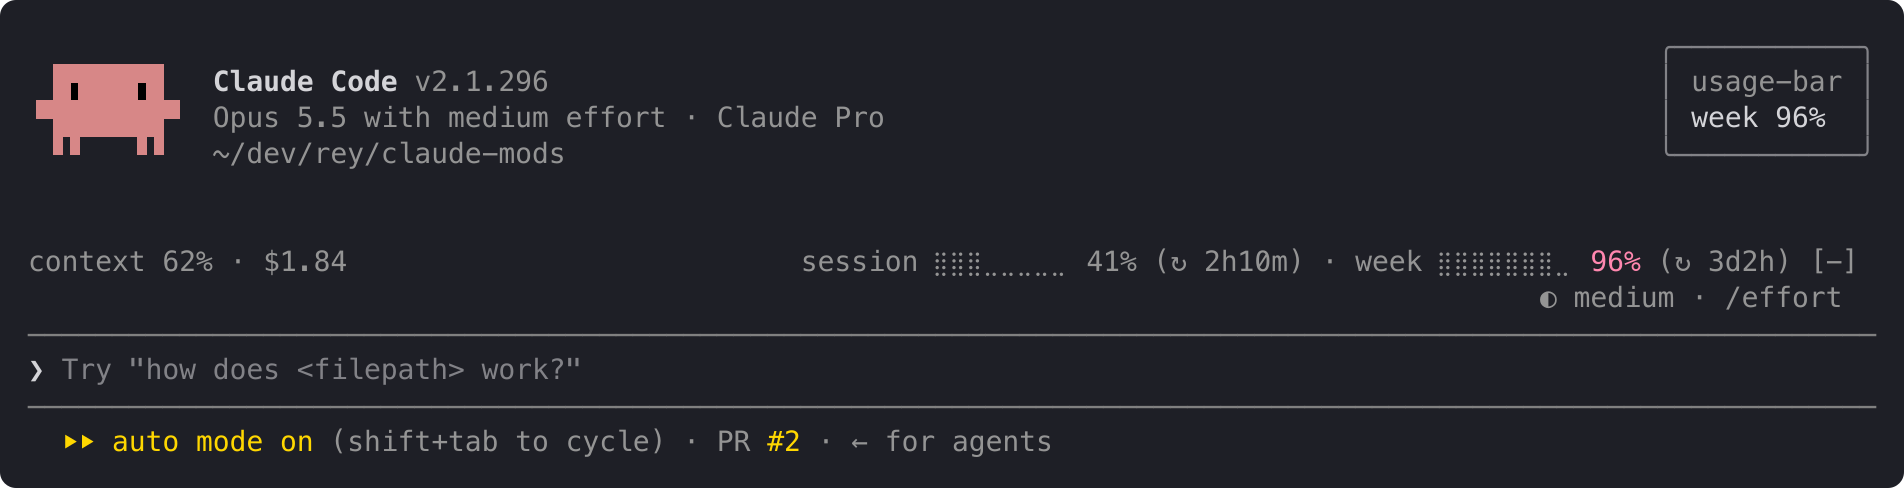
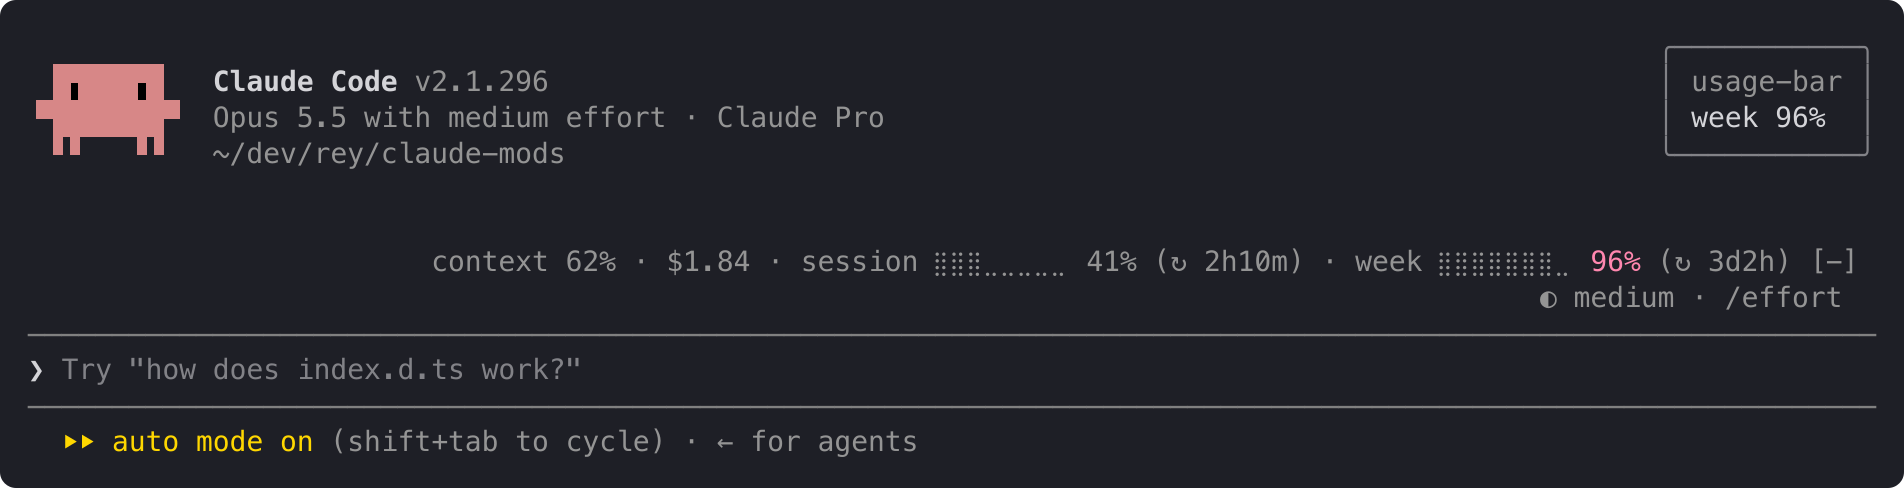
feat(usage-bar): move the whole line to the right edge
At the left edge, context and cost sat where replies are read and
prompts typed. One right-aligned list of items keeps it out of the way.

diff --git a/plugins/usage-bar/hooks/register.tsx b/plugins/usage-bar/hooks/register.tsx
@@ -64,29 +64,24 @@ function windowSegments(limit: LimitReading, layout: Layout, now: number): Segme
   return [{ text: `${label} ${barText}` }, { text: percent, color: levelColor(limit.percentUsed) }, { text: resets }]
 }
 
-// The line in two groups of items: this conversation's figures on the left, the account's limits on the right.
+// The line's items at the right edge: this conversation's figures, then the account's limits.
 // Items are drawn apart with a dot between and a one-column gap either side of it, not a typed ` · `: the
 // desktop app's spaces are narrower than a column.
 type Item = Segment[]
-type Groups = { conversation: Item[]; limits: Item[] }
 const SEPARATOR = 3
 
-// The narrowest gap between the groups.
-const GAP = 2
-
-const groupLength = (items: Item[]) =>
+const lineLength = (items: Item[]) =>
   items.reduce((n, item) => n + item.reduce((m, s) => m + s.text.length, 0), 0) +
   Math.max(0, items.length - 1) * SEPARATOR
 
-function lineGroups(r: Reading, columns: number, now: number): Groups {
-  const fits = ({ conversation, limits }: Groups) =>
-    groupLength(conversation) + (limits.length > 0 ? GAP + groupLength(limits) : 0) <= columns
+function lineItems(r: Reading, columns: number, now: number): Item[] {
+  const fits = (items: Item[]) => lineLength(items) <= columns
 
   // The narrowest layout shows even where nothing fits.
-  return LAYOUTS.map(layout => layoutGroups(r, layout, now)).find(fits) ?? layoutGroups(r, 'tiny', now)
+  return LAYOUTS.map(layout => layoutItems(r, layout, now)).find(fits) ?? layoutItems(r, 'tiny', now)
 }
 
-function layoutGroups(r: Reading, layout: Layout, now: number): Groups {
+function layoutItems(r: Reading, layout: Layout, now: number): Item[] {
   // A figure the reading lacks is a dash, not a made-up 0: the fill before any response
   // reports it, the cost where Claude Code keeps no cost record.
   const ctx = r.contextPercent === undefined ? '–' : `${Math.floor(r.contextPercent)}%`
@@ -99,7 +94,7 @@ function layoutGroups(r: Reading, layout: Layout, now: number): Groups {
     if (window) limits.push(window.filter(segment => segment.text !== ''))
   }
 
-  return { conversation, limits }
+  return [...conversation, ...limits]
 }
 
 // The record to save when the window crossed a threshold not yet toasted this period, else undefined.
@@ -163,44 +158,35 @@ export const register: Register = on => {
 
     if (r === null) {
       return (
-        <Box>
+        <Box flexDirection="row" justifyContent="flex-end" width="100%">
           <Text dimColor>usage: no data yet</Text>
         </Box>
       )
     }
 
     await read($, minute)
-    const { conversation, limits } = lineGroups(r, e.props.bodyColumns, await $.clock.now())
+    const items = lineItems(r, e.props.bodyColumns, await $.clock.now())
+
     // Never wrap: while a desktop window is resized, a frame can draw the layout chosen for the previous width,
     // and a wrapped piece would make the row jump to two lines. Cut it short instead.
-    const draw = (group: string, items: Item[]) =>
-      items.flatMap((item, i) => [
-        ...(i > 0 ? [<Text dimColor wrap="truncate-end">·</Text>] : []),
-        <Box key={`${group}:${i}`} flexDirection="row">
-          {item.map(({ text, color }) =>
-            color ? (
-              <Text color={color} wrap="truncate-end">
-                {text}
-              </Text>
-            ) : (
-              <Text dimColor wrap="truncate-end">
-                {text}
-              </Text>
-            ),
-          )}
-        </Box>,
-      ])
-
     return (
-      <Box flexDirection="row" justifyContent="space-between" columnGap={GAP} width="100%">
-        <Box flexDirection="row" columnGap={1}>
-          {draw('conversation', conversation)}
-        </Box>
-        {limits.length > 0 && (
-          <Box flexDirection="row" columnGap={1}>
-            {draw('limits', limits)}
-          </Box>
-        )}
+      <Box flexDirection="row" justifyContent="flex-end" columnGap={1} width="100%">
+        {items.flatMap((item, i) => [
+          ...(i > 0 ? [<Text dimColor wrap="truncate-end">·</Text>] : []),
+          <Box key={`item:${i}`} flexDirection="row">
+            {item.map(({ text, color }) =>
+              color ? (
+                <Text color={color} wrap="truncate-end">
+                  {text}
+                </Text>
+              ) : (
+                <Text dimColor wrap="truncate-end">
+                  {text}
+                </Text>
+              ),
+            )}
+          </Box>,
+        ])}
       </Box>
     )
   })

diff --git a/plugins/usage-bar/tests/usage-bar.test.ts b/plugins/usage-bar/tests/usage-bar.test.ts
@@ -57,19 +57,13 @@ const session = (percentUsed: number, resetsAt = SESSION_PERIOD): SessionRateLim
 
 async function mountLine($: Engine, surface: (typeof SURFACES)[number], bodyColumns?: number) {
   const ui = await $.ui.mount({ plugin: 'usage-bar', surface, ...abovePrompt(bodyColumns) })
-  // Each group's items are drawn apart with a dot between; ` · ` stands for that, and two spaces, the narrowest gap,
-  // for the space between the conversation's figures on the left and the limits on the right.
+  // Items are drawn apart with a dot between; ` · ` stands for that.
   const boxes = await ui.findAll({ type: 'Box' })
-  const group = (name: string) =>
-    boxes.filter(box => box.key?.startsWith(`${name}:`)).map(box => box.text).join(' · ') || undefined
-  const left = group('conversation')
-  const right = group('limits')
-  // The gaps those stand for are the layout's, not typed spaces: one column either side of each dot, two between groups.
-  if (left !== undefined) {
-    expect(boxes.find(box => box.props.justifyContent === 'space-between')?.props.columnGap).toBe(2)
-    expect(boxes.filter(box => box.props.columnGap === 1)).toHaveLength(right ? 2 : 1)
-  }
-  const line = left === undefined ? boxes[0]?.text : right ? `${left}  ${right}` : left
+  const items = boxes.filter(box => box.key?.startsWith('item:')).map(box => box.text)
+  // The whole line sits at the right edge, and the gap either side of each dot is the layout's, not typed spaces.
+  expect(boxes[0]?.props.justifyContent).toBe('flex-end')
+  if (items.length > 0) expect(boxes[0]?.props.columnGap).toBe(1)
+  const line = items.length > 0 ? items.join(' · ') : boxes[0]?.text
   const texts = await ui.findAll({ type: 'Text' })
   await ui.unmount()
 
@@ -124,7 +118,7 @@ describe('line', () => {
 
     for (const surface of SURFACES) {
       expect((await lineText($, surface))).toBe(
-        'context – · $0.00  session ⣀⣀⣀⣀⣀⣀⣀⣀ 3% (↻ 2h10m) · week ⣿⣀⣀⣀⣀⣀⣀⣀ 21% (↻ 3d2h)',
+        'context – · $0.00 · session ⣀⣀⣀⣀⣀⣀⣀⣀ 3% (↻ 2h10m) · week ⣿⣀⣀⣀⣀⣀⣀⣀ 21% (↻ 3d2h)',
       )
     }
   })
@@ -147,7 +141,7 @@ describe('line', () => {
 
     for (const surface of SURFACES) {
       expect((await lineText($, surface))).toBe(
-        'context 62% · $1.80  session ⣿⣿⣿⣀⣀⣀⣀⣀ 41% (↻ 2h10m) · week ⣿⣀⣀⣀⣀⣀⣀⣀ 18% (↻ 3d2h)',
+        'context 62% · $1.80 · session ⣿⣿⣿⣀⣀⣀⣀⣀ 41% (↻ 2h10m) · week ⣿⣀⣀⣀⣀⣀⣀⣀ 18% (↻ 3d2h)',
       )
     }
   })
@@ -159,10 +153,10 @@ describe('line', () => {
     await measure($, [session(41), week(18)], 62, 1.84)
 
     const layouts = [
-      'context 62% · $1.84  session ⣿⣿⣿⣀⣀⣀⣀⣀ 41% (↻ 2h10m) · week ⣿⣀⣀⣀⣀⣀⣀⣀ 18% (↻ 3d2h)',
-      'ctx 62% · $1.84  s ⣿⣿⣿⣀⣀⣀⣀⣀ 41% (↻ 2h10m) · w ⣿⣀⣀⣀⣀⣀⣀⣀ 18% (↻ 3d2h)',
-      'ctx 62% · $1.84  s 41% (↻ 2h10m) · w 18% (↻ 3d2h)',
-      'ctx 62% · $1.84  s 41% · w 18%',
+      'context 62% · $1.84 · session ⣿⣿⣿⣀⣀⣀⣀⣀ 41% (↻ 2h10m) · week ⣿⣀⣀⣀⣀⣀⣀⣀ 18% (↻ 3d2h)',
+      'ctx 62% · $1.84 · s ⣿⣿⣿⣀⣀⣀⣀⣀ 41% (↻ 2h10m) · w ⣿⣀⣀⣀⣀⣀⣀⣀ 18% (↻ 3d2h)',
+      'ctx 62% · $1.84 · s 41% (↻ 2h10m) · w 18% (↻ 3d2h)',
+      'ctx 62% · $1.84 · s 41% · w 18%',
     ]
     for (const surface of SURFACES) {
       for (const [i, line] of layouts.entries()) {
@@ -215,7 +209,7 @@ describe('line', () => {
     await measure($, [session(10)])
 
     const ui = await $.ui.mount({ plugin: 'usage-bar', surface: 'terminal', ...abovePrompt() })
-    const countdown = async () => (await ui.findAll({ type: 'Box' })).find(box => box.key === 'limits:0')?.text
+    const countdown = async () => (await ui.findAll({ type: 'Box' })).find(box => box.key === 'item:2')?.text
     expect(await countdown()).toBe('session ⣀⣀⣀⣀⣀⣀⣀⣀ 10% (↻ 2h10m)')
     await clock.advance(60_000)
     expect(await countdown()).toBe('session ⣀⣀⣀⣀⣀⣀⣀⣀ 10% (↻ 2h9m)')

diff --git a/docs/usage-bar.md b/docs/usage-bar.md
@@ -4,28 +4,28 @@ One line above the prompt with the session's context fill and cost, plus the pla
 
 ## Behaviour
 
-1. **Line.** One line above the prompt, this conversation's figures on the left and the account's limits on the right:
+1. **Line.** One line above the prompt, at its right edge, away from where replies are read and prompts typed: this conversation's figures, then the account's limits:
 
    ```
-   context 62% · $1.84                session ⣿⣿⣿⣀⣀⣀⣀⣀ 41% (↻ 2h10m) · week ⣿⣀⣀⣀⣀⣀⣀⣀ 18% (↻ 3d2h)
+                   context 62% · $1.84 · session ⣿⣿⣿⣀⣀⣀⣀⣀ 41% (↻ 2h10m) · week ⣿⣀⣀⣀⣀⣀⣀⣀ 18% (↻ 3d2h)
    ```
 
    - `context` (`ctx` in the narrower layouts): how full the context window is, as a whole percent rounded down; `–` while no response has reported it.
    - `$`: what the session has cost so far, in US dollars with two decimals; `$–` where Claude Code keeps no cost record.
    - `session` and `week` (`s` and `w` in the narrower layouts): whole percent used of the session window (`five_hour`) and the weekly window (`seven_day`), rounded down, with the time left until each resets in brackets after `↻`, so it reads as part of its limit: `3d2h` from a day, `2h10m` from an hour, `45m` below, in whole minutes rounded up, a zero part dropped (`4h`, `3d`). Once the reset has passed with no new reading, `now`: the percent shown is the old period's until the next reading. A timer redraws the line every minute, since readings come only with turns and an idle line would go stale. `session` matches claude.ai's "Current session" and doesn't depend on the window's length.
-   - Until the first reading, show `usage: no data yet`, dimmed, so the line doesn't look missing. Not logged in, no reading comes, so it stays until `/login`.
+   - Until the first reading, show `usage: no data yet`, dimmed and at the right edge too, so the line doesn't look missing. Not logged in, no reading comes, so it stays until `/login`.
    - Off a subscription (an API key), readings carry no limits: show context and `$` only.
    - Each window's bar has 8 cells, each 12.5%, filled rounded down: `⣿` used, `⣀` left. Braille looks the same in Warp, iTerm2 and the desktop app and stays light; `█`/`░` draws as a dotted texture in iTerm2 and the desktop app.
    - Each window's percent is coloured by the theme from 50%: `warning`, and `error` from 95%, matching the toasts. Everything else, percents below 50% and bars included, is dimmed: full colour on a bar distracts.
    - No part of the line wraps; one that doesn't fit is cut short with `…`. While a desktop window is resized, a frame can draw the layout chosen for the previous width, and a wrapped part would make the row jump to two lines.
-   - The line shows the widest of these layouts whose two groups fit its available width (`bodyColumns`) with at least 2 spaces between them, so it shortens only when the actual figures don't fit. The narrowest shows even where it doesn't fit. Lengths count the 2-space gap, for the example and at most, with `100%` in both windows, a cost like `$123.45` and the longest countdowns, `4h59m` and `23h59m`. Each ` · ` is a dot drawn with a one-column gap either side, not typed spaces, because the desktop app's spaces are narrower than a column; it counts as 3 columns:
+   - The line shows the widest of these layouts that fits its available width (`bodyColumns`), so it shortens only when the actual figures don't fit. The narrowest shows even where it doesn't fit. Lengths are for the example and at most, with `100%` in both windows, a cost like `$123.45` and the longest countdowns, `4h59m` and `23h59m`. Each ` · ` is a dot drawn with a one-column gap either side, not typed spaces, because the desktop app's spaces are narrower than a column; it counts as 3 columns:
 
-     | Layout | Left | Right | Length | At most |
-     |---|---|---|---|---|
-     | Full | `context 62% · $1.84` | `session ⣿⣿⣿⣀⣀⣀⣀⣀ 41% (↻ 2h10m) · week ⣿⣀⣀⣀⣀⣀⣀⣀ 18% (↻ 3d2h)` | 80 | 87 |
-     | Short, bars | `ctx 62% · $1.84` | `s ⣿⣿⣿⣀⣀⣀⣀⣀ 41% (↻ 2h10m) · w ⣿⣀⣀⣀⣀⣀⣀⣀ 18% (↻ 3d2h)` | 67 | 74 |
-     | Short | `ctx 62% · $1.84` | `s 41% (↻ 2h10m) · w 18% (↻ 3d2h)` | 49 | 56 |
-     | Tiny | `ctx 62% · $1.84` | `s 41% · w 18%` | 30 | 35 |
+     | Layout | Line | Length | At most |
+     |---|---|---|---|
+     | Full | `context 62% · $1.84 · session ⣿⣿⣿⣀⣀⣀⣀⣀ 41% (↻ 2h10m) · week ⣿⣀⣀⣀⣀⣀⣀⣀ 18% (↻ 3d2h)` | 81 | 88 |
+     | Short, bars | `ctx 62% · $1.84 · s ⣿⣿⣿⣀⣀⣀⣀⣀ 41% (↻ 2h10m) · w ⣿⣀⣀⣀⣀⣀⣀⣀ 18% (↻ 3d2h)` | 68 | 75 |
+     | Short | `ctx 62% · $1.84 · s 41% (↻ 2h10m) · w 18% (↻ 3d2h)` | 50 | 57 |
+     | Tiny | `ctx 62% · $1.84 · s 41% · w 18%` | 31 | 36 |
 
 2. **Toasts.** When the session or weekly window first crosses 50%, 80% or 95%, show one toast with just the window and number, named as in the line's full layout: `week 80%`. The time to the reset is on the line, except in the tiny layout, where nothing shows it.
    - A window has crossed a threshold when `percentUsed` is greater than or equal to it, so exactly 50 counts.
@@ -91,7 +91,7 @@ Use `claude plugin test`. Cover at least:
 6. The line rounds the context and window percents down, and shows `$` with two decimals, or `$–` for a reading with no cost.
 7. The startup reading, limits but no context fill yet, shows `context – · $0.00` and both limits.
 8. Empty `rateLimits` never toast.
-9. Each width shows the widest layout whose groups fit it with a 2-space gap, conversation left and limits right, and the line fits every width the tiny layout fits.
+9. Each width shows the widest layout that fits it, the whole line, `usage: no data yet` included, at the right edge, and the line fits every width the tiny layout fits.
 10. Bars fill rounded down and stay dimmed; the percent turns `warning` at 50% and `error` at 95%.
 11. A reading that crosses thresholds in both windows shows one toast naming both; each window's thresholds are still tracked on their own.
 12. Each reset counts down in days and hours, hours and minutes, or minutes, rounded up, a zero part dropped and `now` once passed, and the countdown moves on each minute without a new reading.

diff --git a/plugins/usage-bar/README.md b/plugins/usage-bar/README.md
@@ -2,14 +2,14 @@
 
 Your plan's usage limits, context and cost on one quiet line above the prompt, with an alert before you run out. It doesn't replace your status line: it sits above the prompt, so the two work side by side.
 
-![The bar above Claude Code's prompt: context 62% · $1.84 on the left, session 41% (↻ 2h10m) · week 18% (↻ 3d2h) on the right](images/normal.png)
+![The bar at the right edge above Claude Code's prompt: context 62% · $1.84 · session 41% (↻ 2h10m) · week 18% (↻ 3d2h)](images/normal.png)
 
-On the left, this conversation:
+The line sits at the right edge, away from where you read and type. First, this conversation:
 
 - `context`: how full the context window is.
 - `$`: what this session has cost.
 
-On the right, your account's limits:
+Then your account's limits:
 
 - `session` and `week`: how much of your 5-hour and weekly limits you've used, and after `↻`, how long until each resets: `2h10m`, `3d2h`, or `now` once it has reset.
 
@@ -28,15 +28,15 @@ When both limits cross at once, one alert names both: `session 62% · week 97%`.
 The line at the top is the full layout. When it doesn't fit, it shortens instead of wrapping, one step at a time:
 
 ```
-ctx 62% · $1.84    s ⣿⣿⣿⣀⣀⣀⣀⣀ 41% (↻ 2h10m) · w ⣿⣀⣀⣀⣀⣀⣀⣀ 18% (↻ 3d2h)
+ctx 62% · $1.84 · s ⣿⣿⣿⣀⣀⣀⣀⣀ 41% (↻ 2h10m) · w ⣿⣀⣀⣀⣀⣀⣀⣀ 18% (↻ 3d2h)
 ```
 
 ```
-ctx 62% · $1.84    s 41% (↻ 2h10m) · w 18% (↻ 3d2h)
+ctx 62% · $1.84 · s 41% (↻ 2h10m) · w 18% (↻ 3d2h)
 ```
 
 ```
-ctx 62% · $1.84    s 41% · w 18%
+ctx 62% · $1.84 · s 41% · w 18%
 ```
 
 ## Before the first reading
